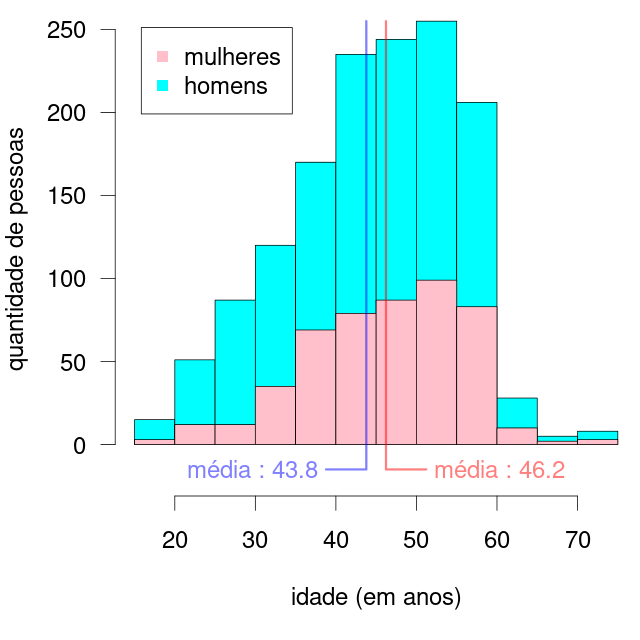
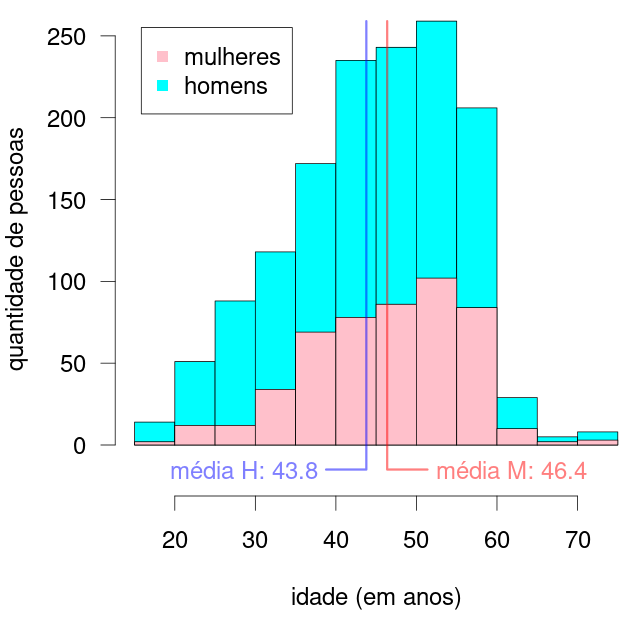
Update for new data, published today by the SEAPE-DF

diff --git a/README.md b/README.md
@@ -3,25 +3,25 @@
 
 ## Introdução
 
-Este repositório contém os dados publicados pela Secretaria de Estado de Administração Penitenciária do Distrito Federal (SEAPE), assim que o programa em R para análise demográfica dos mesmos.
+Este repositório contém os dados publicados pela Secretaria de Estado de Administração Penitenciária do Distrito Federal (SEAPE-DF), assim que o programa em R para análise demográfica dos mesmos.
 
 A lista de pessoas presas nos atos terroristas na Praça dos Três Poderes é atualizada frequentemente 
-na [ṕagina da SEAPE](https://seape.df.gov.br/prisoes-dos-atentados-bsb/), contendo os nomes completos e as datas de nascimento das pessoas.
+na [ṕagina da SEAPE-DF](https://seape.df.gov.br/prisoes-dos-atentados-bsb/), contendo os nomes completos e as datas de nascimento das pessoas.
 
 
 ## Análise
 
-A [lista atual](presos.csv), contém 1426 nomes. Esta lista não corresponde à ultima listagem disponibilizada pela SEAPE, que contém 1398 nomes, na listagem publicada em 14 de janeiro de 2023. Todos os nomes que figuravam nas listas previamente publicadas foram mantidos. Um dado duplicado foi suprimido.
+A [lista atual](presos.csv), contém 1430 nomes. Esta lista não corresponde à ultima listagem disponibilizada pela SEAPE, que contém 1395 nomes, na listagem publicada em 15 de janeiro de 2023. Todos os nomes que figuravam nas listas previamente publicadas foram mantidos. 
 
-Destas 1426 pessoas, 494 são mulheres e 932 são homens. Uma pessoa com idade inferior a 18 anos e uma pessoa com idade de 86 anos foram suprimidas da análise, pois acredito tratar-se de erros de digitação. A data de nascimento de uma pessoa foi corrigida de “1696” para “1996”. A análise aqui presente é assim relativa a 1424 pessoas (494 mulheres e 930 homens).
+Destas 1430 pessoas, 495 são mulheres e 935 são homens. Uma pessoa com idade inferior a 18 anos e uma pessoa com idade de 123 anos foram suprimidas da análise, pois acredito tratar-se de erros de digitação. A data de nascimento de uma pessoa foi corrigida de “1696” para “1996”. A análise aqui presente é assim relativa a 1428 pessoas (494 mulheres e 934 homens).
 
 A distribuição de idades é mostrada no gráfico abaixo, com as pessoas agrupadas em faixas etárias de 5 anos. Mulheres são representadas na cor rosa e homens na cor azul.
 
 ![figure](histograma-idades.png)
 
-A idade mínima é de 18,1 anos e a máxima de 74.8 anos. 66% das pessoas têm entre 40 e 60 anos e 35% deles têm entre 45 e 55 anos. Está claro que o grosso do contingente é formado por pessoas de meia idade.
+A idade mínima é de 18,1 anos e a máxima de 74.8 anos. 66% das pessoas têm entre 40 e 60 anos e 35,2% deles têm entre 45 e 55 anos. Está claro que o grosso do contingente é formado por pessoas de meia idade.
 
-A mediana de idade das mulheres é de 47,4 anos e a dos homens de 44,9 anos. A média de idade das mulheres é de 46,2 anos e a dos homens é de 43,8 anos. Esta diferença de idade de quase 2 anos e meio entre homens e mulheres é estatisticamente significativa (_p_ < 0.001).
+A mediana de idade das mulheres é de 47,8 anos e a dos homens de 44,9 anos. A média de idade das mulheres é de 46,4 anos e a dos homens é de 43,8 anos. Esta diferença de idade de 2,6 anos entre homens e mulheres é estatisticamente significativa (_p_ < 0.001).
 
 Cabe observar que a faixa de idade com maior representatividade entre as mulheres é entre 50 e 55 anos.
 
